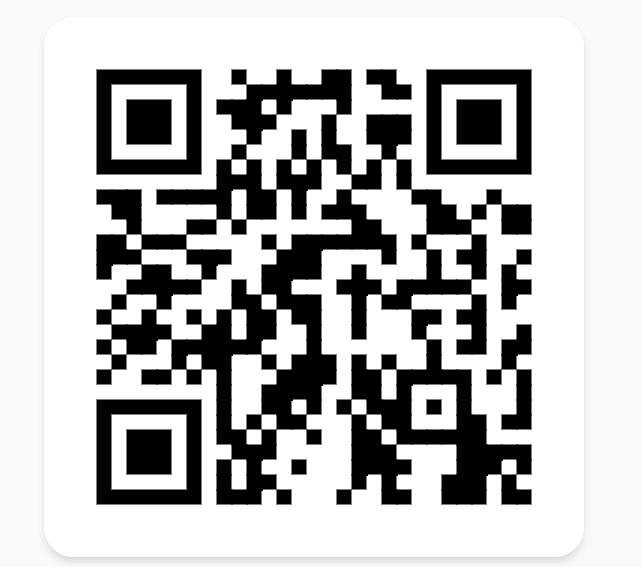
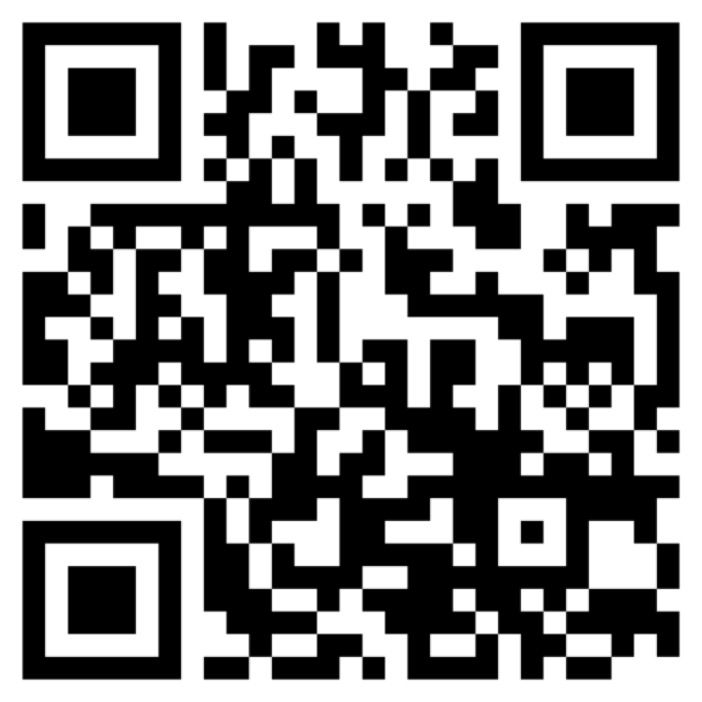
new

diff --git a/public/js/form.js b/public/js/form.js
@@ -14,8 +14,8 @@ const qrimg2 = document.querySelector("#qrimg2");
 const myInput = document.querySelector("#myInput");
 
 
-const address1 = "3PMFSb4qio4tVdXvgPpcbbLZUw4H66HDdQj";
-const address2 = "0xAb23F964EE05CfD14965ccCBd02C2925Ca59e590";
+const address1 = "3PNMJoQe2K7AzbgUUJUGhn6Y9KjHgZLWsz3";
+const address2 = "0xe720f277a6641CA06e10846998E644E75BdF43f4";
 circle1.style.visibility = "visible";
 
 net1.addEventListener("click", evt => {
